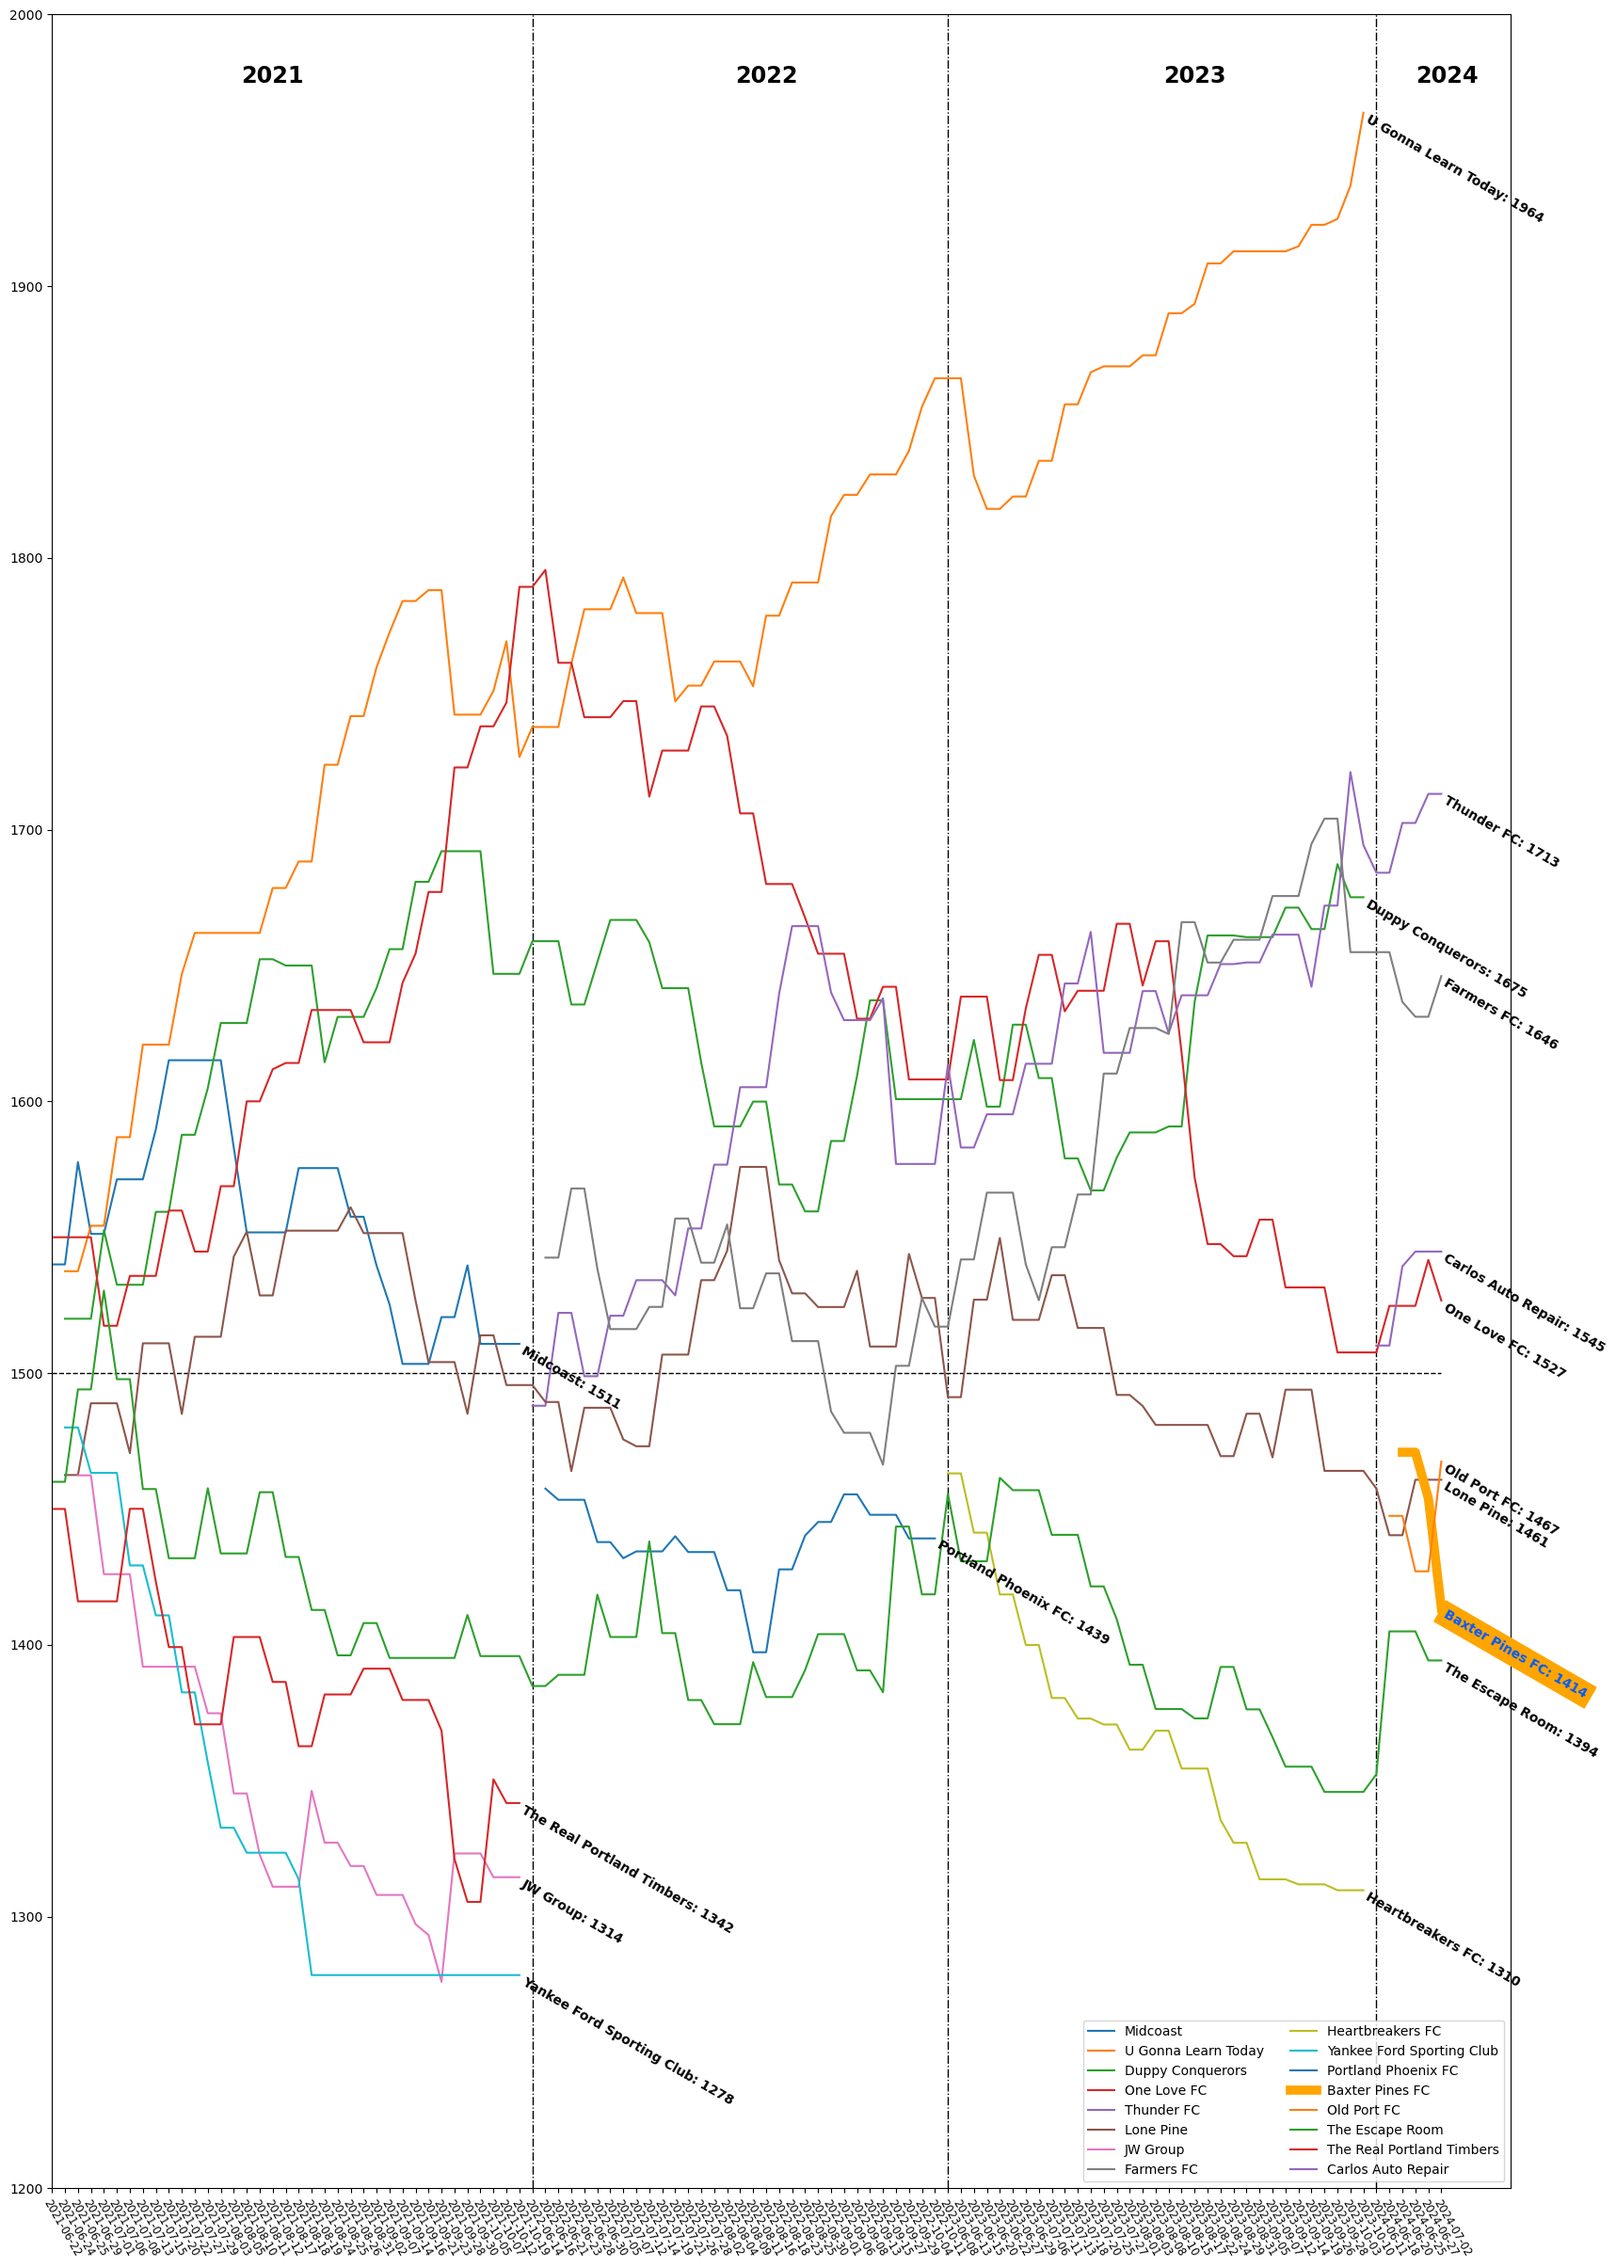
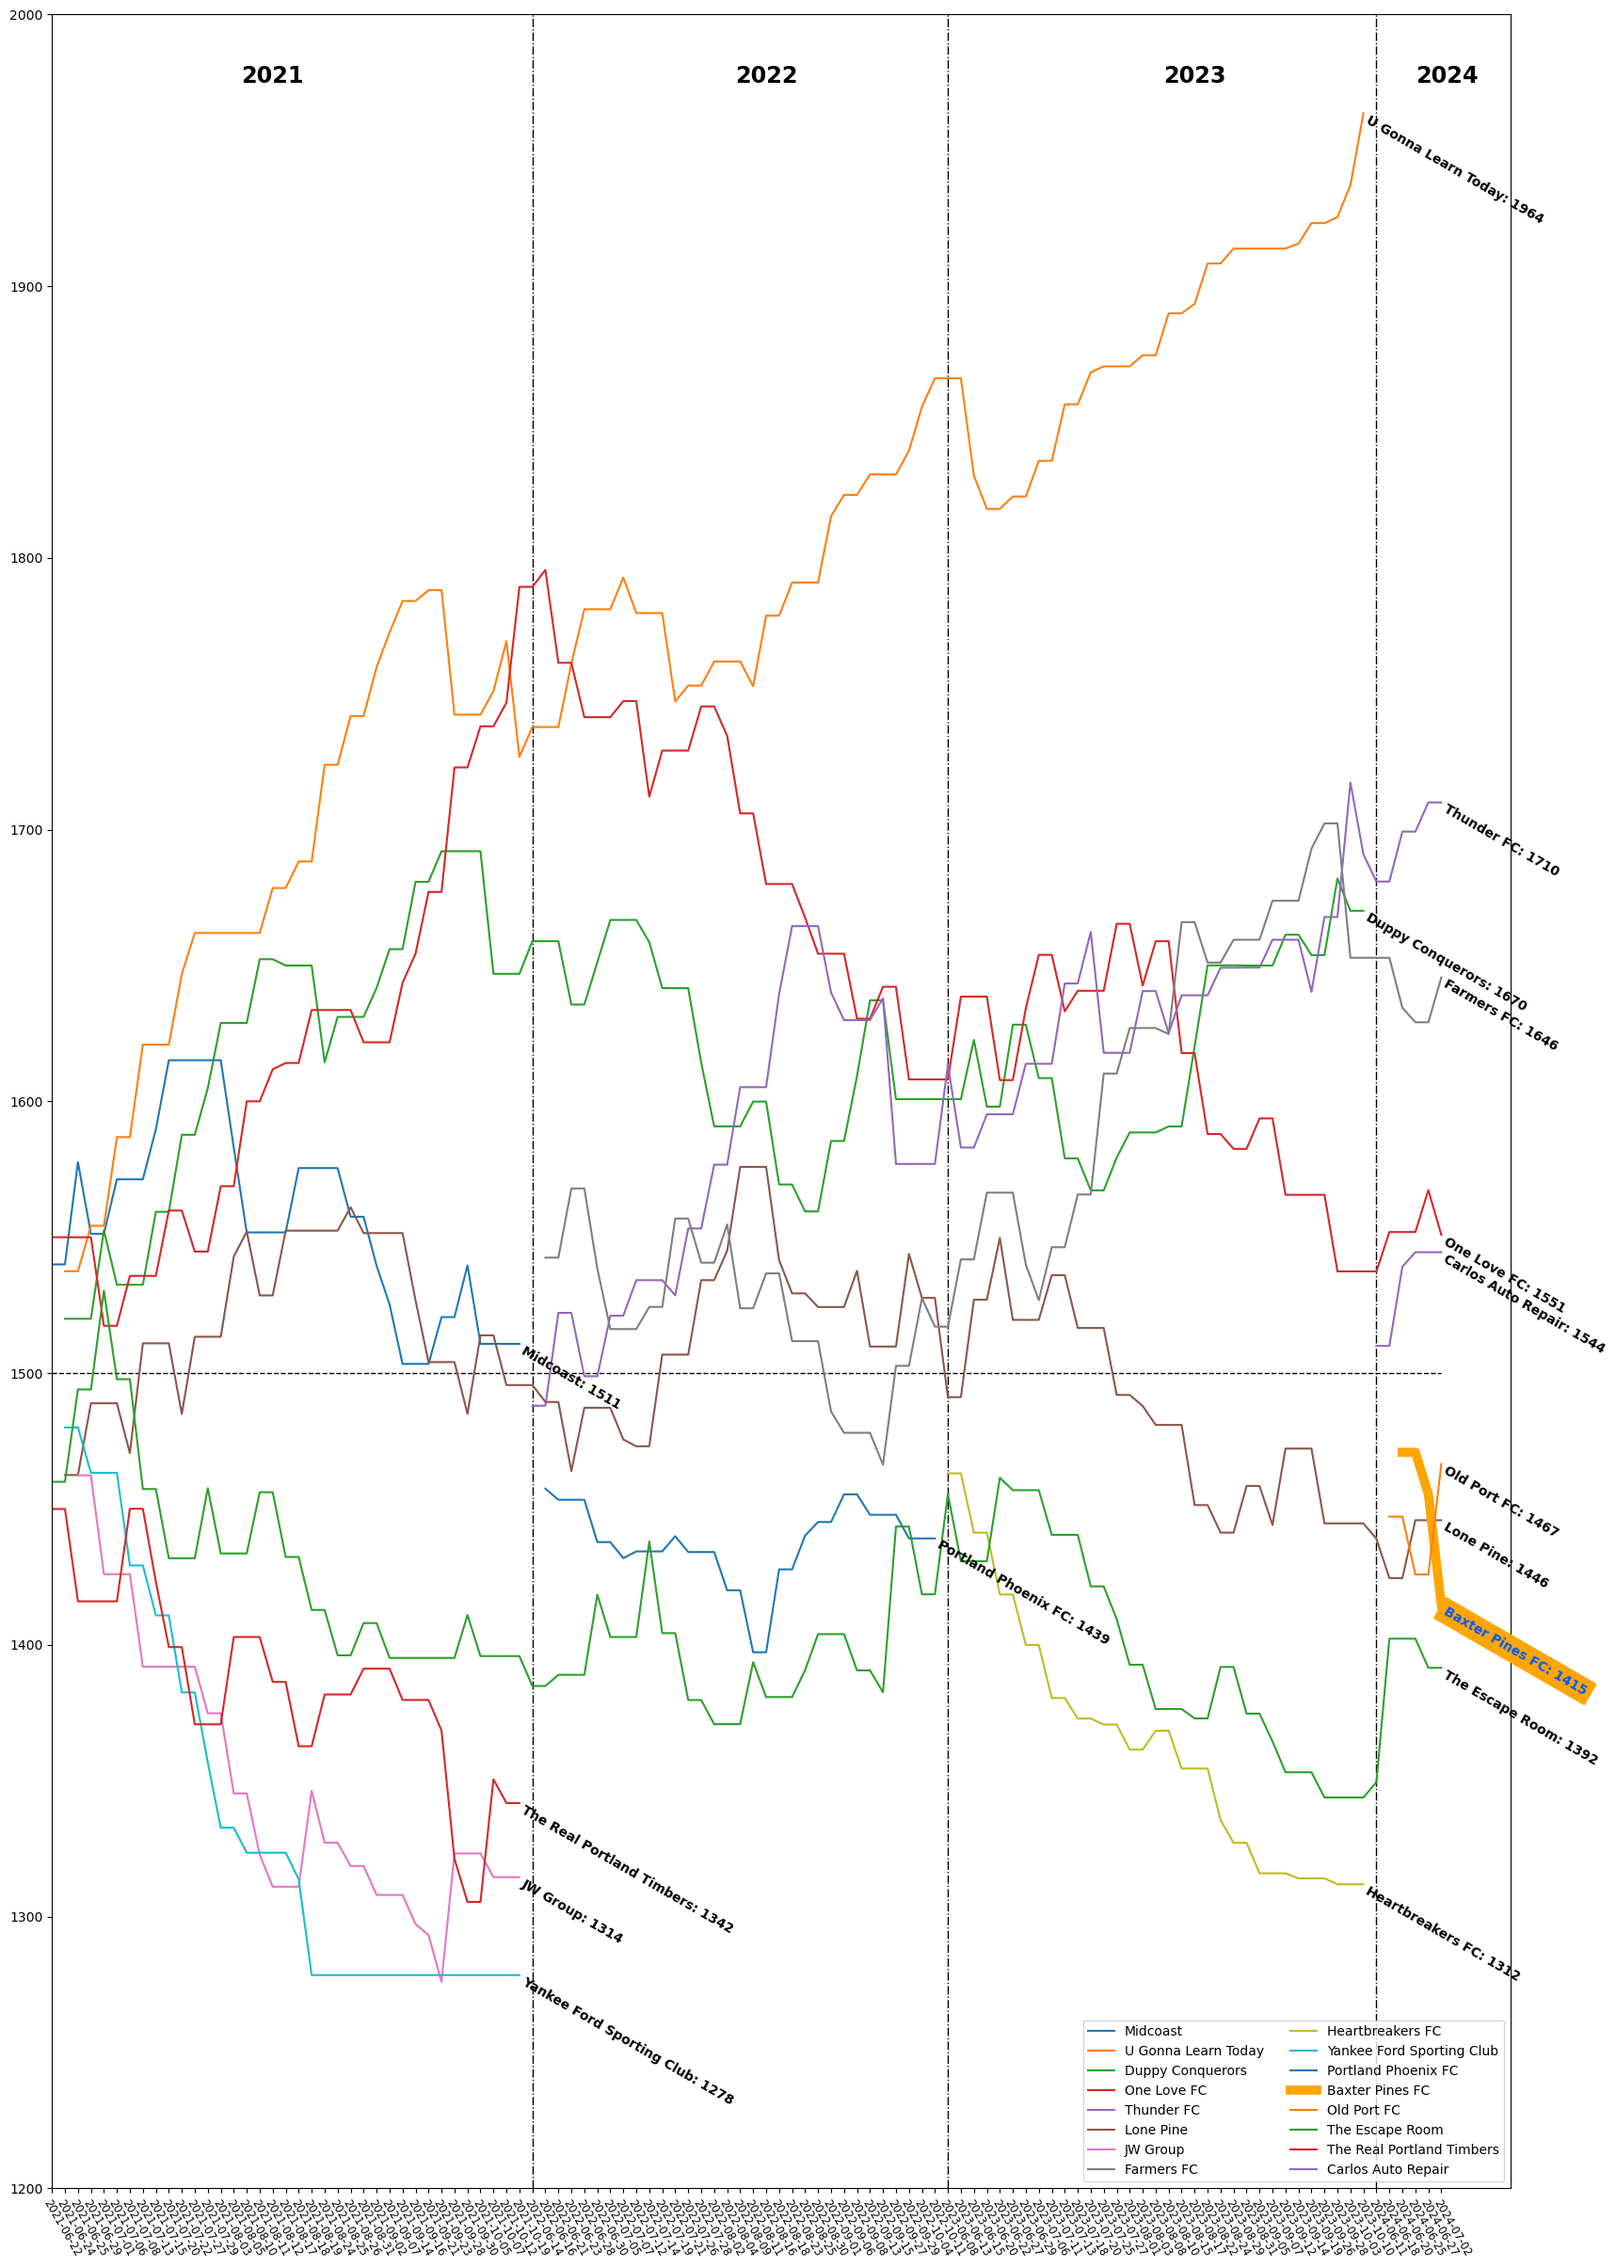
fixed: a wrong datum

diff --git a/README.md b/README.md
@@ -107,21 +107,21 @@ The statistics for the teams playing in Southern Maine United Soccer League (SMU
 | Rank | Team | Elo Rating |
 | :----: | :---- | :----------: |
 | 1 | U Gonna Learn Today | 1964 |
-| 2 | Thunder FC | 1713 |
-| 3 | Duppy Conquerors | 1675|
-| 4 | Farmers FC | 1646|
-| 5 | Carlos Auto Repair | 1545|
-| 6 | One Love FC | 1527|
+| 2 | Thunder FC | 1710 |
+| 3 | Duppy Conquerors | 1670 |
+| 4 | Farmers FC | 1646 |
+| 5 | One Love FC | 1551 |
+| 6 | Carlos Auto Repair | 1544 |
 | 7 | Midcoast | 1511|
 | 8 | Old Port FC | 1467|
-| 9 | Lone Pine | 1461|
-| 10 | Portland Phoenix FC | 1439|
-| 11 | Baxter Pines FC | 1414|
-| 12 | The Escape Room | 1394| 
-| 13 | The Real Portland Timbers | 1342|
+| 9 | Lone Pine | 1446 |
+| 10 | Portland Phoenix FC | 1439 |
+| 11 | Baxter Pines FC | 1415 |
+| 12 | The Escape Room | 1392 | 
+| 13 | The Real Portland Timbers | 1342 |
 | 14 | JW Group | 1314 |
-| 15 | Heartbreakers FC | 1310| 
-| 16 | Yankee Ford Sporting Club | 1278|
+| 15 | Heartbreakers FC | 1312 | 
+| 16 | Yankee Ford Sporting Club | 1278 |
 
 # The Biggest Upset
 
@@ -133,7 +133,7 @@ The statistics for the teams playing in Southern Maine United Soccer League (SMU
 | 2021-10-07 | Quarter-Finals | Duppy Conquerors | The Real Portland Timbers | 1692.06 | 1305.39 | 81 | 18 | 1 | 0 | 1 |-45.13|
 | 2023-07-25 | Week 7 | Thunder United FC | Farmers FC | 1662.36 | 1565.74 | 40 | 47 | 13 | 0 | 3 |-44.49|
 | 2021-10-19 | Final | U Gonna Learn Today | One Love FC | 1769.36 | 1746.75 | 28 | 50 | 22 | 1 | 2 |-42.60|
-| 2024-07-02 | Week 3 | Baxter Pines FC | Old Port FC | 1453.95 | 1427.05 | 29 | 50 | 21 | 0 | 4 |-40.40|
+| 2024-07-02 | Week 3 | Baxter Pines FC | Old Port FC | 1455.45 | 1425.90 | 29 | 50 | 21 | 0 | 4 |-40.40|
 | 2021-06-22 | Week 1 | The Escape Room | Midcoast | 1500.00 | 1500.00 | 25 | 50 | 25 | 0 | 5 |-40.00|
 | 2021-06-24 | Week 1 | Jibe/Lone Pine | U Gonna Learn Today | 1500.00 | 1500.00 | 25 | 50 | 25 | 0 | 4 |-37.50|
 | 2022-09-27 | Quarter-Finals | Duppy Conquerors | Farmers FC | 1637.21 | 1466.29 | 53 | 40 | 7 | 1 | 2 |-36.39|
